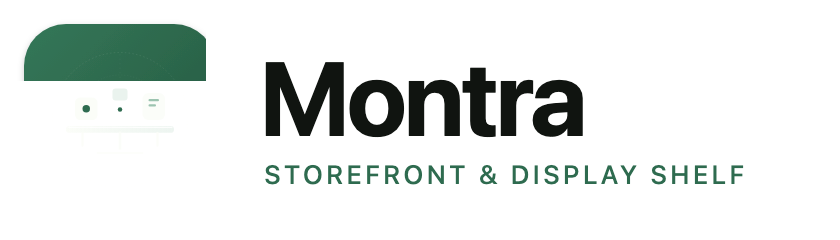
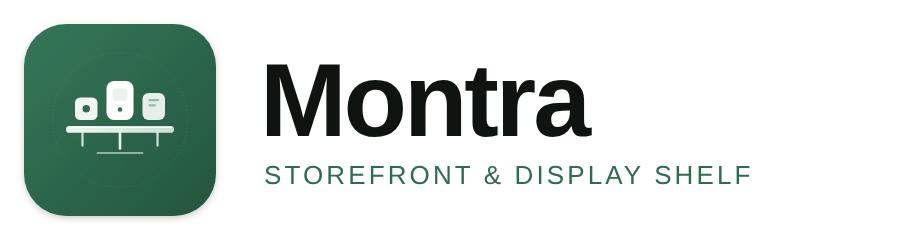
Integrar identidade Stitch na app e atualizar documentação

diff --git a/app/src/main/java/dev/montra/MainActivity.kt b/app/src/main/java/dev/montra/MainActivity.kt
@@ -70,6 +70,7 @@ import dev.montra.ui.GamesScreen
 import dev.montra.ui.MontraViewModel
 import dev.montra.ui.SearchScreen
 import dev.montra.ui.SettingsScreen
+import dev.montra.ui.components.MontraBrand
 import dev.montra.ui.theme.MontraTheme
 import dev.montra.ui.theme.Motion
 import dev.montra.ui.theme.Space
@@ -209,14 +210,18 @@ fun MontraRoot(
             if (route != Tab.SEARCH.route) {
                 TopAppBar(
                     title = {
-                        Text(
-                            when {
-                                isDetail -> detailedApp?.app?.name ?: "Detalhes"
-                                route == Tab.SETTINGS.route -> "Definições"
-                                route == Tab.GAMES.route -> "Jogos e emuladores"
-                                else -> "Montra"
-                            },
-                        )
+                        if (!isDetail && route == Tab.APPS.route) {
+                            MontraBrand()
+                        } else {
+                            Text(
+                                when {
+                                    isDetail -> detailedApp?.app?.name ?: "Detalhes"
+                                    route == Tab.SETTINGS.route -> "Definições"
+                                    route == Tab.GAMES.route -> "Jogos e emuladores"
+                                    else -> "Montra"
+                                },
+                            )
+                        }
                     },
                     colors = TopAppBarDefaults.topAppBarColors(
                         containerColor = MaterialTheme.colorScheme.surface,

diff --git a/app/src/main/java/dev/montra/ui/components/MontraBrand.kt b/app/src/main/java/dev/montra/ui/components/MontraBrand.kt
@@ -1,0 +1,37 @@
+package dev.montra.ui.components
+
+import androidx.compose.foundation.Image
+import androidx.compose.foundation.layout.Arrangement
+import androidx.compose.foundation.layout.Row
+import androidx.compose.foundation.layout.size
+import androidx.compose.material3.MaterialTheme
+import androidx.compose.material3.Text
+import androidx.compose.runtime.Composable
+import androidx.compose.ui.Alignment
+import androidx.compose.ui.Modifier
+import androidx.compose.ui.res.painterResource
+import androidx.compose.ui.text.font.FontWeight
+import androidx.compose.ui.unit.dp
+import dev.montra.R
+import dev.montra.ui.theme.Space
+
+/** The approved Stitch mark, paired with an accessible native app name. */
+@Composable
+fun MontraBrand(modifier: Modifier = Modifier) {
+    Row(
+        modifier = modifier,
+        verticalAlignment = Alignment.CenterVertically,
+        horizontalArrangement = Arrangement.spacedBy(Space.sm),
+    ) {
+        Image(
+            painter = painterResource(R.drawable.montra_mark),
+            contentDescription = null,
+            modifier = Modifier.size(40.dp),
+        )
+        Text(
+            text = "Montra",
+            style = MaterialTheme.typography.titleLarge,
+            fontWeight = FontWeight.Bold,
+        )
+    }
+}

diff --git a/app/src/main/java/dev/montra/ui/SettingsScreen.kt b/app/src/main/java/dev/montra/ui/SettingsScreen.kt
@@ -28,7 +28,6 @@ import androidx.compose.ui.Alignment
 import androidx.compose.ui.Modifier
 import androidx.compose.ui.graphics.Color
 import androidx.compose.ui.platform.LocalContext
-import androidx.compose.ui.text.font.FontWeight
 import androidx.compose.ui.unit.dp
 import dev.montra.BuildConfig
 import dev.montra.data.AutoRefresh
@@ -38,6 +37,7 @@ import dev.montra.install.InstallManager
 import dev.montra.ui.components.Block
 import dev.montra.ui.components.KeyValue
 import dev.montra.ui.components.LinkRow
+import dev.montra.ui.components.MontraBrand
 import dev.montra.ui.components.SectionTitle
 import dev.montra.ui.theme.Space
 import dev.montra.util.verifiedLabel
@@ -246,11 +246,7 @@ fun SettingsScreen(
 
             SectionTitle("Sobre")
             Block {
-                Text(
-                    text = "Montra",
-                    style = MaterialTheme.typography.titleMedium,
-                    fontWeight = FontWeight.SemiBold,
-                )
+                MontraBrand()
                 Spacer(Modifier.height(Space.xs))
                 // A versão e o código ficam juntos porque é isto que se lê em voz alta
                 // quando se reporta um problema, e é a única coisa nesta app que o

diff --git a/design/stitch.py b/design/stitch.py
@@ -1,0 +1,122 @@
+#!/usr/bin/env python3
+"""Exporta a Direção 1 aprovada para VectorDrawable, sem dependências externas.
+
+O SVG do Stitch é a fonte: preserva módulos, detalhes, prateleira e gradientes.
+As sombras e guias de construção ficam na apresentação, fora do ícone Android.
+Uso: python3 design/stitch.py
+"""
+
+import xml.etree.ElementTree as ET
+from pathlib import Path
+
+from icons import rounded_rect
+
+ROOT = Path(__file__).resolve().parent.parent
+SOURCE = ROOT / "design/stitch-concepts/stitch-d1-storefront.svg"
+OUT = ROOT / "app/src/main/res/drawable"
+
+
+def drawable_paths():
+    root = ET.parse(SOURCE).getroot()
+    gradients = {e.attrib["id"]: e for e in root.iter()
+                 if e.tag.endswith("linearGradient")}
+    paths = []
+    for e in root.iter():
+        a = e.attrib
+        tag = e.tag.rsplit("}", 1)[-1]
+        # Only filled artwork and the solid foundation strokes; construction
+        # circles/axes and SVG filters are presentation aids.
+        if "stroke-dasharray" in a:
+            continue
+        if tag == "rect":
+            data = rounded_rect(float(a.get("x", 0)), float(a.get("y", 0)),
+                                float(a["width"]), float(a["height"]),
+                                float(a.get("rx", 0)))
+        elif tag == "circle" and "fill" in a:
+            x, y, r = (float(a[k]) for k in ("cx", "cy", "r"))
+            data = f"M{x-r},{y} a{r},{r} 0 1 0 {2*r},0 a{r},{r} 0 1 0 {-2*r},0 z"
+        elif tag == "path":
+            data = a["d"]
+        else:
+            continue
+        attrs = [f'android:pathData="{data}"']
+        fill = a.get("fill", "#00000000")
+        gradient = None
+        if fill.startswith("url(#"):
+            gradient = gradients[fill[5:-1]]
+        else:
+            attrs.append(f'android:fillColor="{fill}"')
+        for svg, android in (("fill-opacity", "fillAlpha"), ("stroke", "strokeColor"),
+                             ("stroke-width", "strokeWidth"), ("stroke-opacity", "strokeAlpha"),
+                             ("stroke-linecap", "strokeLineCap")):
+            if svg in a:
+                attrs.append(f'android:{android}="{a[svg]}"')
+        path = "    <path " + "\n        ".join(attrs)
+        if gradient is None:
+            path += " />"
+        else:
+            # The source gradients run across the plate/shelf bounding boxes.
+            x, y = float(a.get("x", 0)), float(a.get("y", 0))
+            w, h = float(a["width"]), float(a["height"])
+            coords = {k: (x if k.endswith("X") else y) +
+                      (w if k.endswith("X") else h) *
+                      float(gradient.attrib[s].rstrip("%")) / 100
+                      for k, s in (("startX", "x1"), ("startY", "y1"),
+                                   ("endX", "x2"), ("endY", "y2"))}
+            path += '>\n        <aapt:attr name="android:fillColor">\n'
+            path += '            <gradient android:type="linear" ' + " ".join(
+                f'android:{k}="{v}"' for k, v in coords.items()) + '>\n'
+            for stop in gradient:
+                sa = stop.attrib
+                alpha = round(float(sa.get("stop-opacity", 1)) * 255)
+                color = f'#{alpha:02X}{sa["stop-color"][1:]}'
+                offset = float(sa["offset"].rstrip("%")) / 100
+                path += f'                <item android:color="{color}" android:offset="{offset}" />\n'
+            path += '            </gradient>\n        </aapt:attr>\n    </path>'
+        paths.append(path)
+    return paths
+
+
+def vector(paths, size, viewport, group=None):
+    body = "\n".join(paths)
+    if group:
+        body = f'    <group {group}>\n{body}\n    </group>'
+    return ('<?xml version="1.0" encoding="utf-8"?>\n'
+            '<!-- Gerado por design/stitch.py a partir da Direção 1 do Stitch. -->\n'
+            '<vector xmlns:android="http://schemas.android.com/apk/res/android"\n'
+            '    xmlns:aapt="http://schemas.android.com/aapt"\n'
+            f'    android:width="{size}dp" android:height="{size}dp"\n'
+            f'    android:viewportWidth="{viewport}" android:viewportHeight="{viewport}">\n'
+            f'{body}\n</vector>\n')
+
+
+def outputs():
+    paths = drawable_paths()
+    # The approved 512px canvas occupies the visible 72dp of a 108dp adaptive
+    # icon. Background bleeds to the edges; artwork remains inside the safe zone.
+    group = ('android:translateX="18" android:translateY="18" '
+             'android:scaleX="0.140625" android:scaleY="0.140625"')
+    background = paths[0].replace(rounded_rect(0, 0, 512, 512, 112),
+                                 "M0,0 H512 V512 H0 Z")
+    # The monochrome silhouette excludes the inset windows/indicators.
+    mono = []
+    for i in (1, 3, 6, 9, 11, 12, 13, 14):
+        element = ET.fromstring('<root xmlns:android="http://schemas.android.com/apk/res/android" '
+                                'xmlns:aapt="http://schemas.android.com/aapt">' + paths[i] + '</root>')[0]
+        data = element.attrib['{http://schemas.android.com/apk/res/android}pathData']
+        stroke = element.attrib.get('{http://schemas.android.com/apk/res/android}strokeWidth')
+        paint = ('android:fillColor="#00000000" android:strokeColor="#FFFFFF" '
+                 f'android:strokeWidth="{stroke}" android:strokeLineCap="round"') if stroke else 'android:fillColor="#FFFFFF"'
+        mono.append(f'    <path android:pathData="{data}" {paint} />')
+    return {
+        "montra_mark.xml": vector(paths, 48, 512),
+        "ic_launcher_foreground.xml": vector(paths[1:], 108, 108, group),
+        "ic_launcher_background.xml": vector([background], 108, 512),
+        "ic_launcher_monochrome.xml": vector(mono, 108, 108, group),
+    }
+
+
+if __name__ == "__main__":
+    for name, content in outputs().items():
+        (OUT / name).write_text(content, encoding="utf-8")
+        print(f"{name} ← {SOURCE.name}")

diff --git a/design/verify-drawable.py b/design/verify-drawable.py
@@ -18,10 +18,12 @@ Uso: python3 design/verify-drawable.py        # identifica o conceito sozinho
 import shutil
 import subprocess
 import sys
+import xml.etree.ElementTree as ET
 from pathlib import Path
 
 import icons
 import render
+import stitch
 
 ROOT = Path(__file__).resolve().parent.parent
 DRAWABLE = ROOT / "app" / "src" / "main" / "res" / "drawable" / "ic_launcher_foreground.xml"
@@ -85,6 +87,22 @@ def render_svg_from_drawable(text):
 def main():
     esperado = sys.argv[1] if len(sys.argv) > 1 else None
     text = DRAWABLE.read_text(encoding="utf-8")
+
+    if esperado == "stitch-d1" or "Gerado por design/stitch.py" in text:
+        if esperado and esperado != "stitch-d1":
+            sys.exit(f"o drawable instalado é stitch-d1, mas o esperado era {esperado}")
+        for name, expected in stitch.outputs().items():
+            actual = DRAWABLE.parent / name
+            if not actual.is_file() or actual.read_text(encoding="utf-8") != expected:
+                sys.exit(f"{name} diverge da Direção 1: correr python3 design/stitch.py")
+        adaptive = ET.parse(DRAWABLE.parent.parent / "mipmap-anydpi-v26/ic_launcher.xml").getroot()
+        for role in ("background", "foreground", "monochrome"):
+            layer = adaptive.find(role)
+            reference = f"@drawable/ic_launcher_{role}"
+            if layer is None or layer.attrib.get("{http://schemas.android.com/apk/res/android}drawable") != reference:
+                sys.exit(f"o ícone adaptativo tem de referenciar {reference}")
+        print("ok: marca, ícone adaptativo, fundo e monocromático correspondem à Direção 1 do Stitch")
+        return
 
     key = identify(text)
     if key is None:

diff --git a/README.md b/README.md
@@ -1,6 +1,6 @@
 # Montra — cliente Android
 
-<img src="design/wordmark/montra-wordmark@2x.png" alt="Montra" width="280">
+<img src="design/stitch-concepts/montra-wordmark-stitch@2x.png" alt="Montra" width="350">
 
 A app. Descarrega um catálogo, verifica a assinatura, verifica cada APK, instala.
 
@@ -20,6 +20,7 @@ A app. Descarrega um catálogo, verifica a assinatura, verifica cada APK, instal
 Tiradas num emulador descartável (`./design/capturas.sh`) e não no telemóvel de quem
 as tirou: um emulador não traz notificações nem a lista de aplicações instaladas para
 dentro de uma imagem que vai para um repositório público.
+Estas capturas são anteriores à integração da identidade da Direção 1 do Stitch.
 
 | | | |
 | --- | --- | --- |
@@ -111,6 +112,21 @@ acusa uma app de estar parada sem saber quando é que ela lançou. As regras est
 
 ## Design
 
+A identidade atual é a **Direção 1 — Vitrine & Prateleira Minimalista**, aprovada
+no [Stitch](design/stitch-concepts/README.md). O novo
+[logo](design/stitch-concepts/montra-wordmark-stitch.svg) e o
+[ícone](design/stitch-concepts/stitch-d1-storefront.svg) estão no projeto.
+O símbolo aparece no cabeçalho do separador Apps, no Sobre e no ícone adaptativo
+do launcher, com uma variante monocromática para ícones temáticos.
+
+<img src="design/loja/icone-512.png" alt="Novo ícone da Montra: apps numa prateleira" width="128">
+
+`python3 design/stitch.py` gera os quatro VectorDrawables a partir do SVG aprovado;
+`python3 design/verify-drawable.py stitch-d1` confirma que correspondem à fonte.
+A adaptação Android mantém os módulos, os detalhes e os gradientes e dispensa
+as sombras e as guias de construção da apresentação. O nome usa texto nativo
+com a cor do tema para continuar legível em modo claro e escuro.
+
 As decisões visuais estão em [DESIGN.md](DESIGN.md): paleta, escala de tipografia,
 escala de espaço, formas, e o que a app nunca faz. O código referencia essas
 constantes (`ui/theme`) em vez de inventar valores por composable. O ficheiro foi
@@ -144,10 +160,13 @@ app/src/main/assets/
 └── index-signing.pub.pem      chave de confiança (parte da identidade da app)
 ```
 
-O ícone e o logo também são gerados, e não desenhados à mão no XML:
+Os assets Android são gerados, e não desenhados à mão no XML. Os geradores da
+identidade anterior continuam disponíveis para referência:
 
 ```
 design/
+├── stitch.py                  SVG aprovado → marca, foreground, background e monocromático
+├── stitch-concepts/           nova identidade aprovada e conceitos alternativos
 ├── icons.py                   a geometria: uma fonte para o SVG e para o VectorDrawable
 ├── render.py                  o motor de renderização que o ícone e o logo partilham
 ├── render-previews.sh         pré-visualiza com a máscara circular, a 512px e a 48px

diff --git a/DESIGN.md b/DESIGN.md
@@ -118,6 +118,19 @@ superfície define a linha.*
 
 ## O ícone da Montra
 
+A identidade atual é a **Direção 1 do Stitch**, documentada em
+[design/stitch-concepts/README.md](design/stitch-concepts/README.md).
+`design/stitch.py` converte o SVG aprovado em quatro VectorDrawables: símbolo
+da interface, foreground, background com sangria e silhueta monocromática.
+Mantém os gradientes e os detalhes dos módulos; sombras e guias de construção
+ficam na apresentação. O canvas de 512px ocupa os 72dp visíveis do ícone
+adaptativo de 108dp, e o símbolo fica dentro do círculo de segurança de 66dp.
+`python3 design/verify-drawable.py stitch-d1` verifica os quatro ficheiros em CI
+e localmente. A marca aparece no cabeçalho Apps e no Sobre, acompanhada pelo
+nome em texto nativo, com a cor do tema.
+
+### Identidade anterior (referência)
+
 O ícone é uma montra em dois tempos: **três apps expostas numa prateleira** e, por
 baixo, **a faixa** — a mesma superfície que a app usa para dizer o estado do catálogo.
 Branco plano sobre `#2E6B4F`, sem gradientes, sem sombra e sem cor dinâmica: aqui o
@@ -160,6 +173,11 @@ versão da marca. Um gráfico promocional é a única superfície onde apetece i
 uma frase; a frase não existe, e um logo sozinho não mente.
 
 ## O wordmark
+
+O logo atual para documentação é
+[montra-wordmark-stitch.svg](design/stitch-concepts/montra-wordmark-stitch.svg),
+com uma exportação PNG incluída para manter a tipografia estável no README.
+As regras e ficheiros abaixo descrevem a identidade anterior.
 
 O nome **não é texto**: são contornos. Um logo escrito com `font-family` muda de forma
 conforme a fonte que existir na máquina de quem abre o ficheiro, e isso não é um logo,

diff --git a/design/stitch-concepts/README.md b/design/stitch-concepts/README.md
@@ -15,6 +15,19 @@ Projeto Stitch: **`Montra Logo & App Icon Design`** (ID: `7777111789677733119`)
   * `stitch-d1-wordmark-showcase.svg` e `stitch-d1-wordmark-showcase.png`: Apresentação oficial gerada pelo Stitch com as variantes para fundos claros (`#F7FAF3` / `#101410`) e escuros (`#141814` / `#FFFFFF`).
   * `montra-wordmark-stitch.svg` e `montra-wordmark-stitch@2x.png`: Versão horizontal transparente para integração web/documentação.
 
+## Integração Android
+
+`python3 design/stitch.py` converte `stitch-d1-storefront.svg` em
+`montra_mark.xml`, `ic_launcher_foreground.xml`, `ic_launcher_background.xml` e
+`ic_launcher_monochrome.xml`. A versão Android conserva a geometria dos módulos,
+os detalhes e os gradientes; remove as sombras e as guias de construção.
+O fundo tem sangria completa e o símbolo ocupa a área visível de 72dp no viewport
+adaptativo de 108dp. A versão monocromática usa a silhueta dos módulos e prateleira.
+
+A marca aparece no cabeçalho Apps e no Sobre. O nome usa texto nativo e adapta-se
+ao tema claro/escuro. O README usa o wordmark PNG aprovado.
+`python3 design/verify-drawable.py stitch-d1` verifica os quatro recursos gerados.
+
 ---
 
 ## Conceitos Alternativos Explorados
